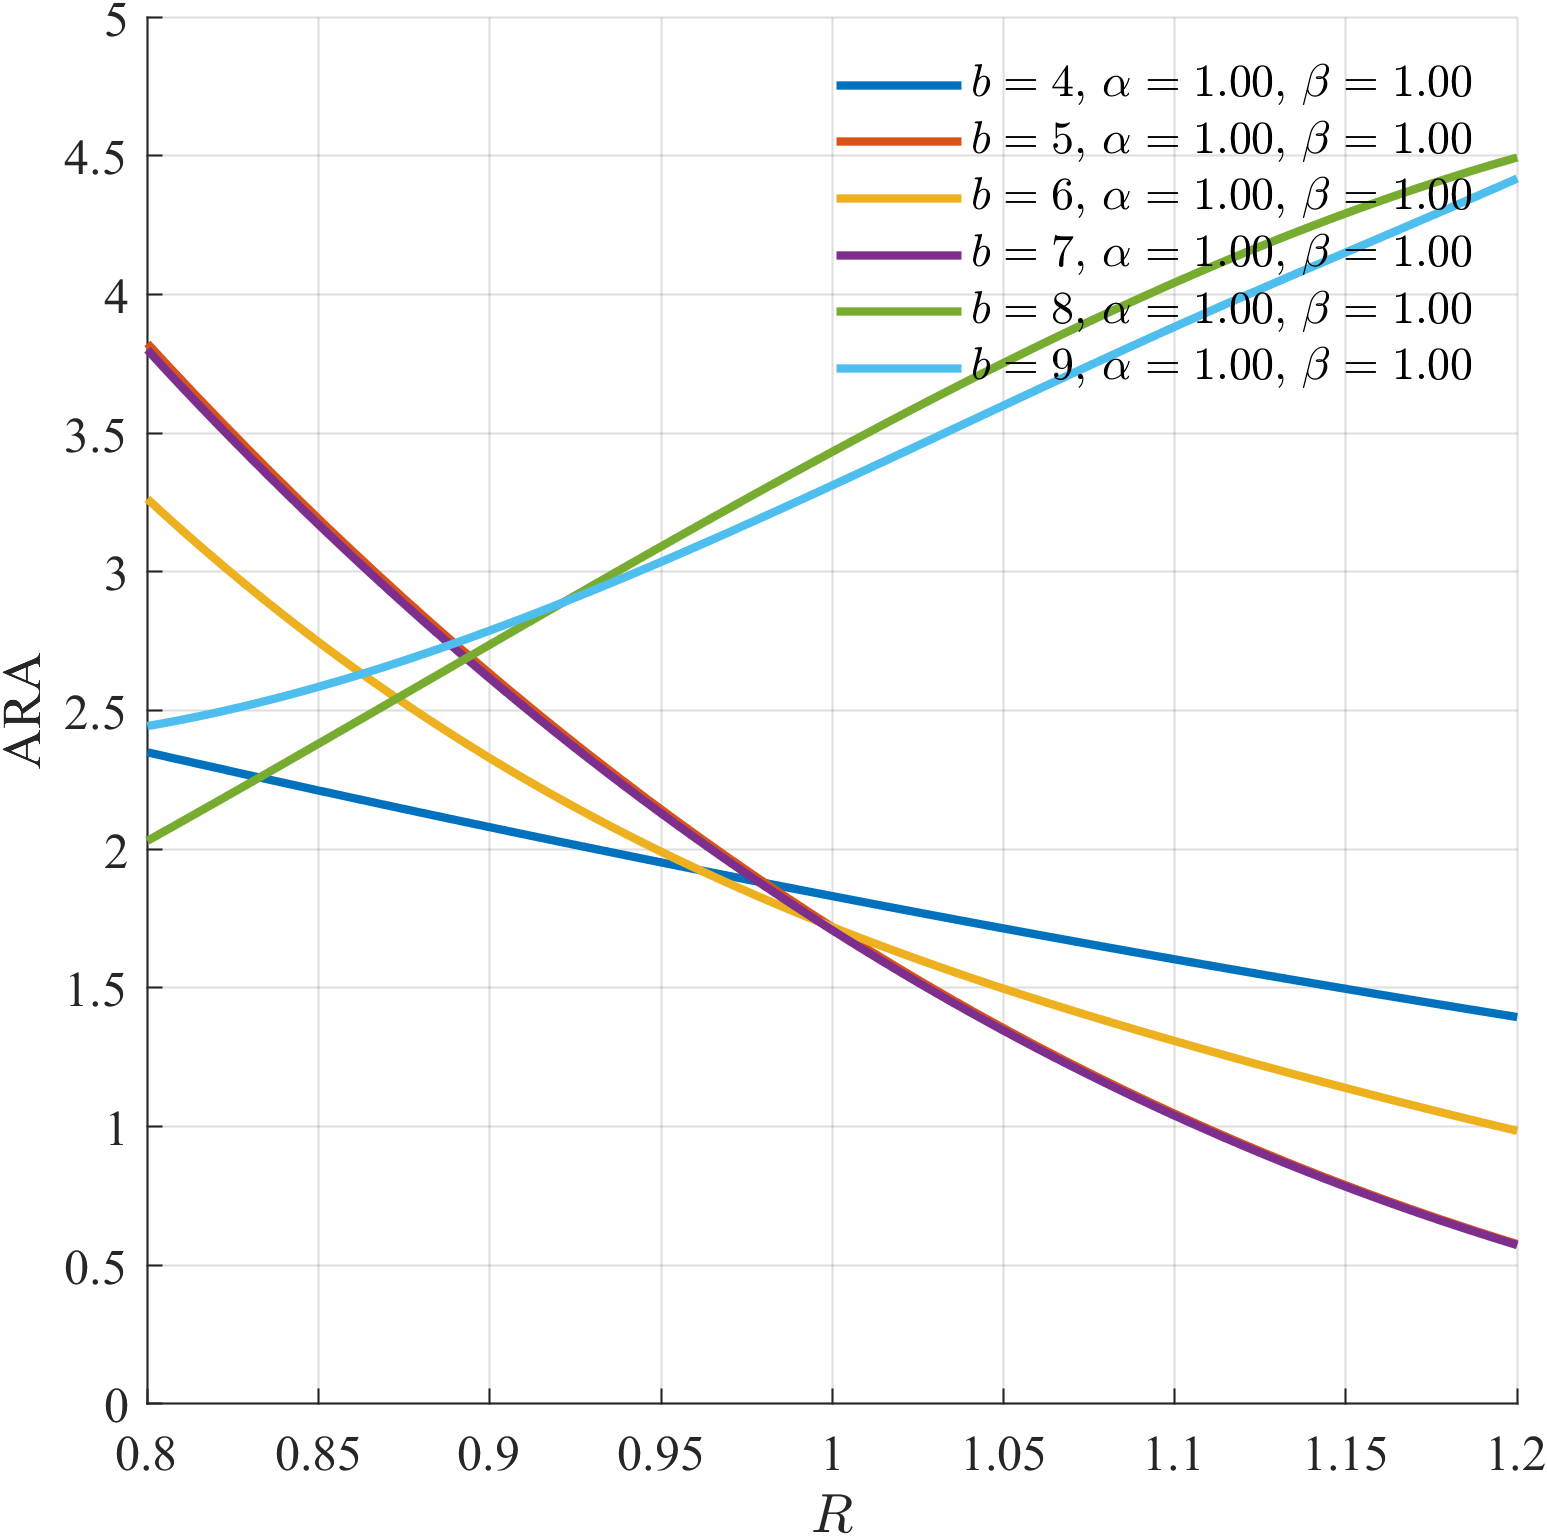
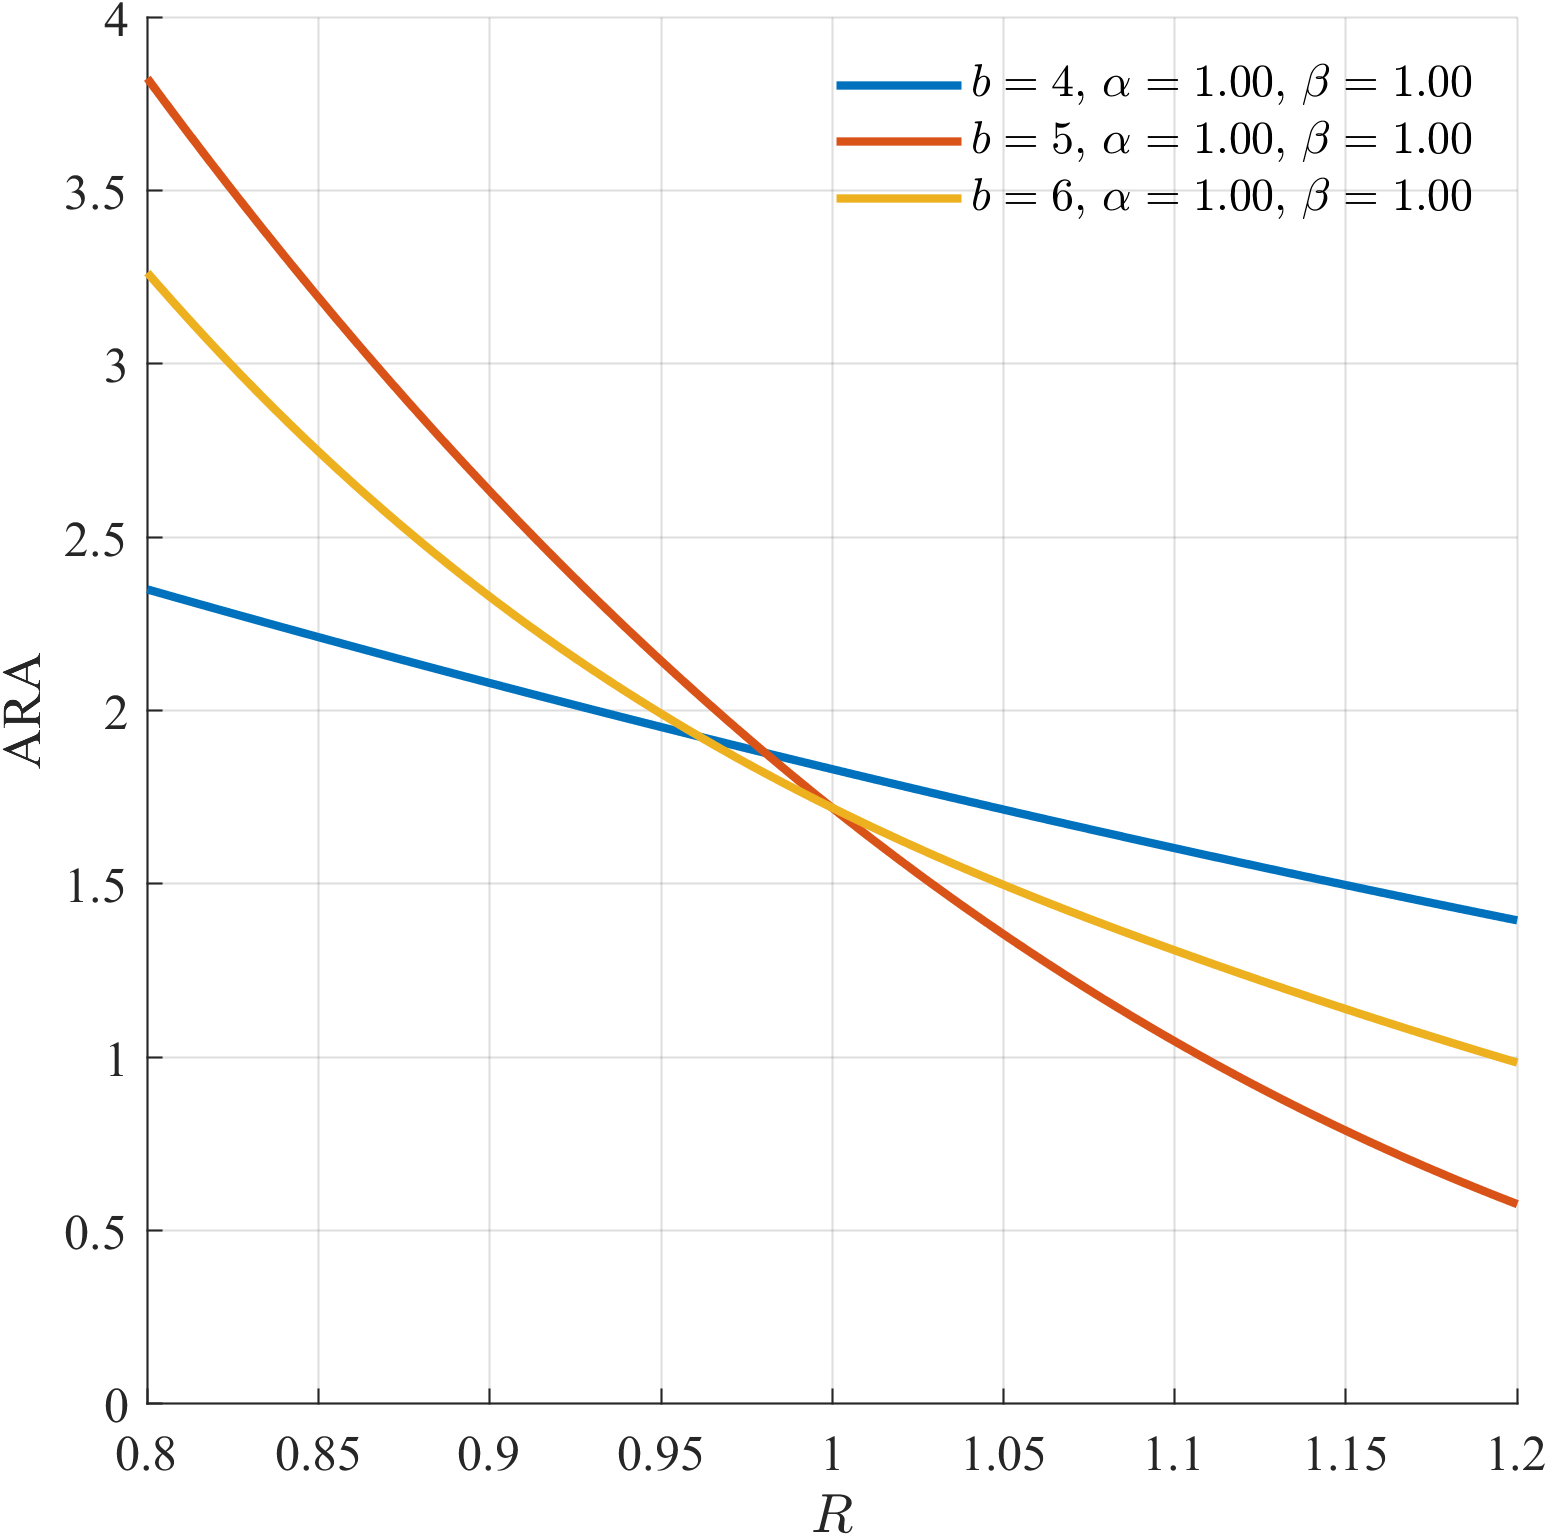
Adjust plot groups and y-limits; update plots
Trim parameter cases (removed b=7..9 entries) and update plot grouping to use first half as Distorted and second half as Undistorted (indices 1:3 and 4:6). Tighten Y-axis limits for measures (ARA/RRA: 0–4, AP/RP: 0–13, AT/RT: 0–11) to improve plot scaling. Regenerated Quartic group output PNGs to reflect these changes.

diff --git a/12  MLE - Cubic B-Spline with Distortion and Monotonicity (full range)/Main__Plot.m b/12  MLE - Cubic B-Spline with Distortion and Monotonicity (full range)/Main__Plot.m
@@ -96,23 +96,17 @@ param_list = {
     struct('b', 4, 'alpha', 0.95, 'beta', 0.90)
     struct('b', 5, 'alpha', 1.00, 'beta', 0.90)
     struct('b', 6, 'alpha', 1.00, 'beta', 0.90)
-    struct('b', 7, 'alpha', 1.00, 'beta', 0.90)
-    struct('b', 8, 'alpha', 0.95, 'beta', 1.10)
-    struct('b', 9, 'alpha', 1.00, 'beta', 1.10)
     
     % --- Undistorted cases ---
     struct('b', 4, 'alpha', 1.00, 'beta', 1.00)
     struct('b', 5, 'alpha', 1.00, 'beta', 1.00)
     struct('b', 6, 'alpha', 1.00, 'beta', 1.00)
-    struct('b', 7, 'alpha', 1.00, 'beta', 1.00)
-    struct('b', 8, 'alpha', 1.00, 'beta', 1.00)
-    struct('b', 9, 'alpha', 1.00, 'beta', 1.00)
 };
 
-% 設定繪圖群組：前六組為 Distorted，後六組為 Undistorted
+% 設定繪圖群組：前半為 Distorted，後半組為 Undistorted
 plot_groups = {
-    struct('indices', 1:6,  'suffix', 'distorted',   'title', 'Distorted')
-    struct('indices', 7:12, 'suffix', 'undistorted', 'title', 'Undistorted')
+    struct('indices', 1:3,  'suffix', 'distorted',   'title', 'Distorted')
+    struct('indices', 4:6, 'suffix', 'undistorted', 'title', 'Undistorted')
 };
 
 tol = 1e-9;
@@ -365,9 +359,9 @@ for m = 1:length(measures)
         
         % 設定 Y 軸範圍 (可依據實際結果微調)
         switch measure_key
-            case 'ARA', ylim([0, 5]);   case 'RRA', ylim([0, 5]);
-            case 'AP',  ylim([0, 16]);  case 'RP',  ylim([0, 16]);
-            case 'AT',  ylim([0, 30]);  case 'RT',  ylim([0, 30]);
+            case 'ARA', ylim([0, 4]);   case 'RRA', ylim([0, 4]);
+            case 'AP',  ylim([0, 13]);  case 'RP',  ylim([0, 13]);
+            case 'AT',  ylim([0, 11]);  case 'RT',  ylim([0, 11]);
         end
         
         legend('show', 'Location', 'northeast', 'Box', 'off', 'FontSize', 11);
